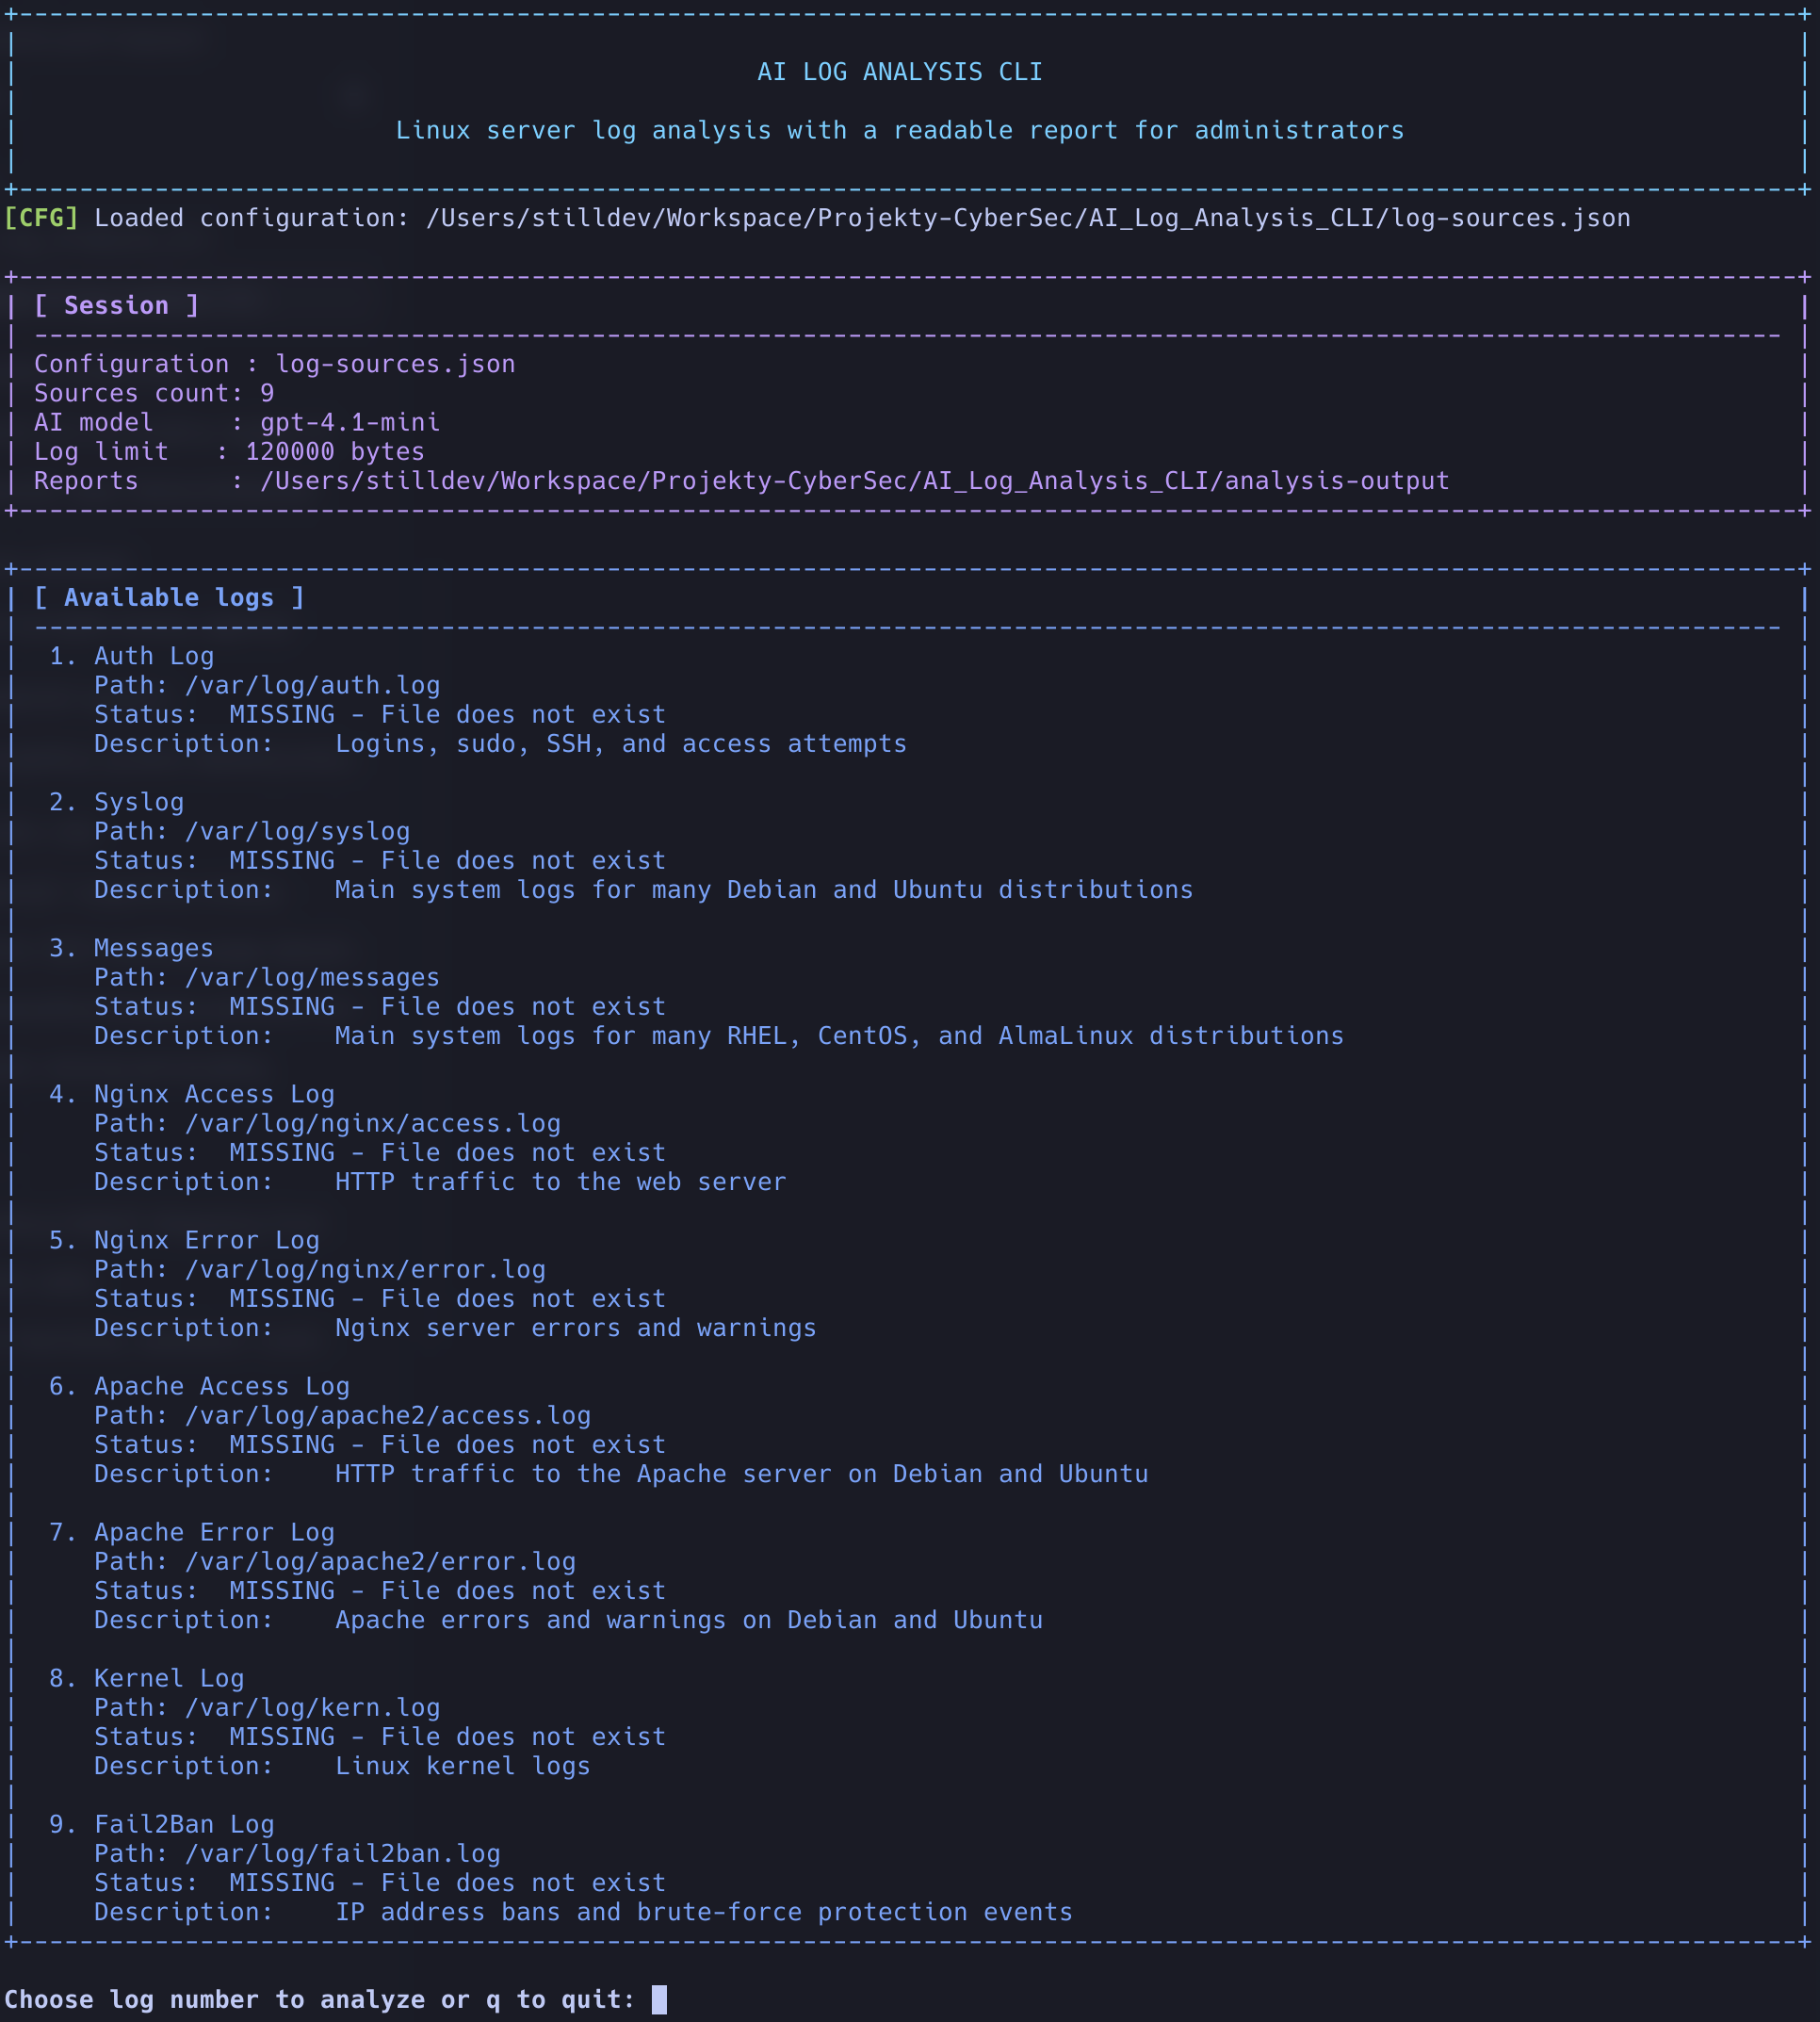
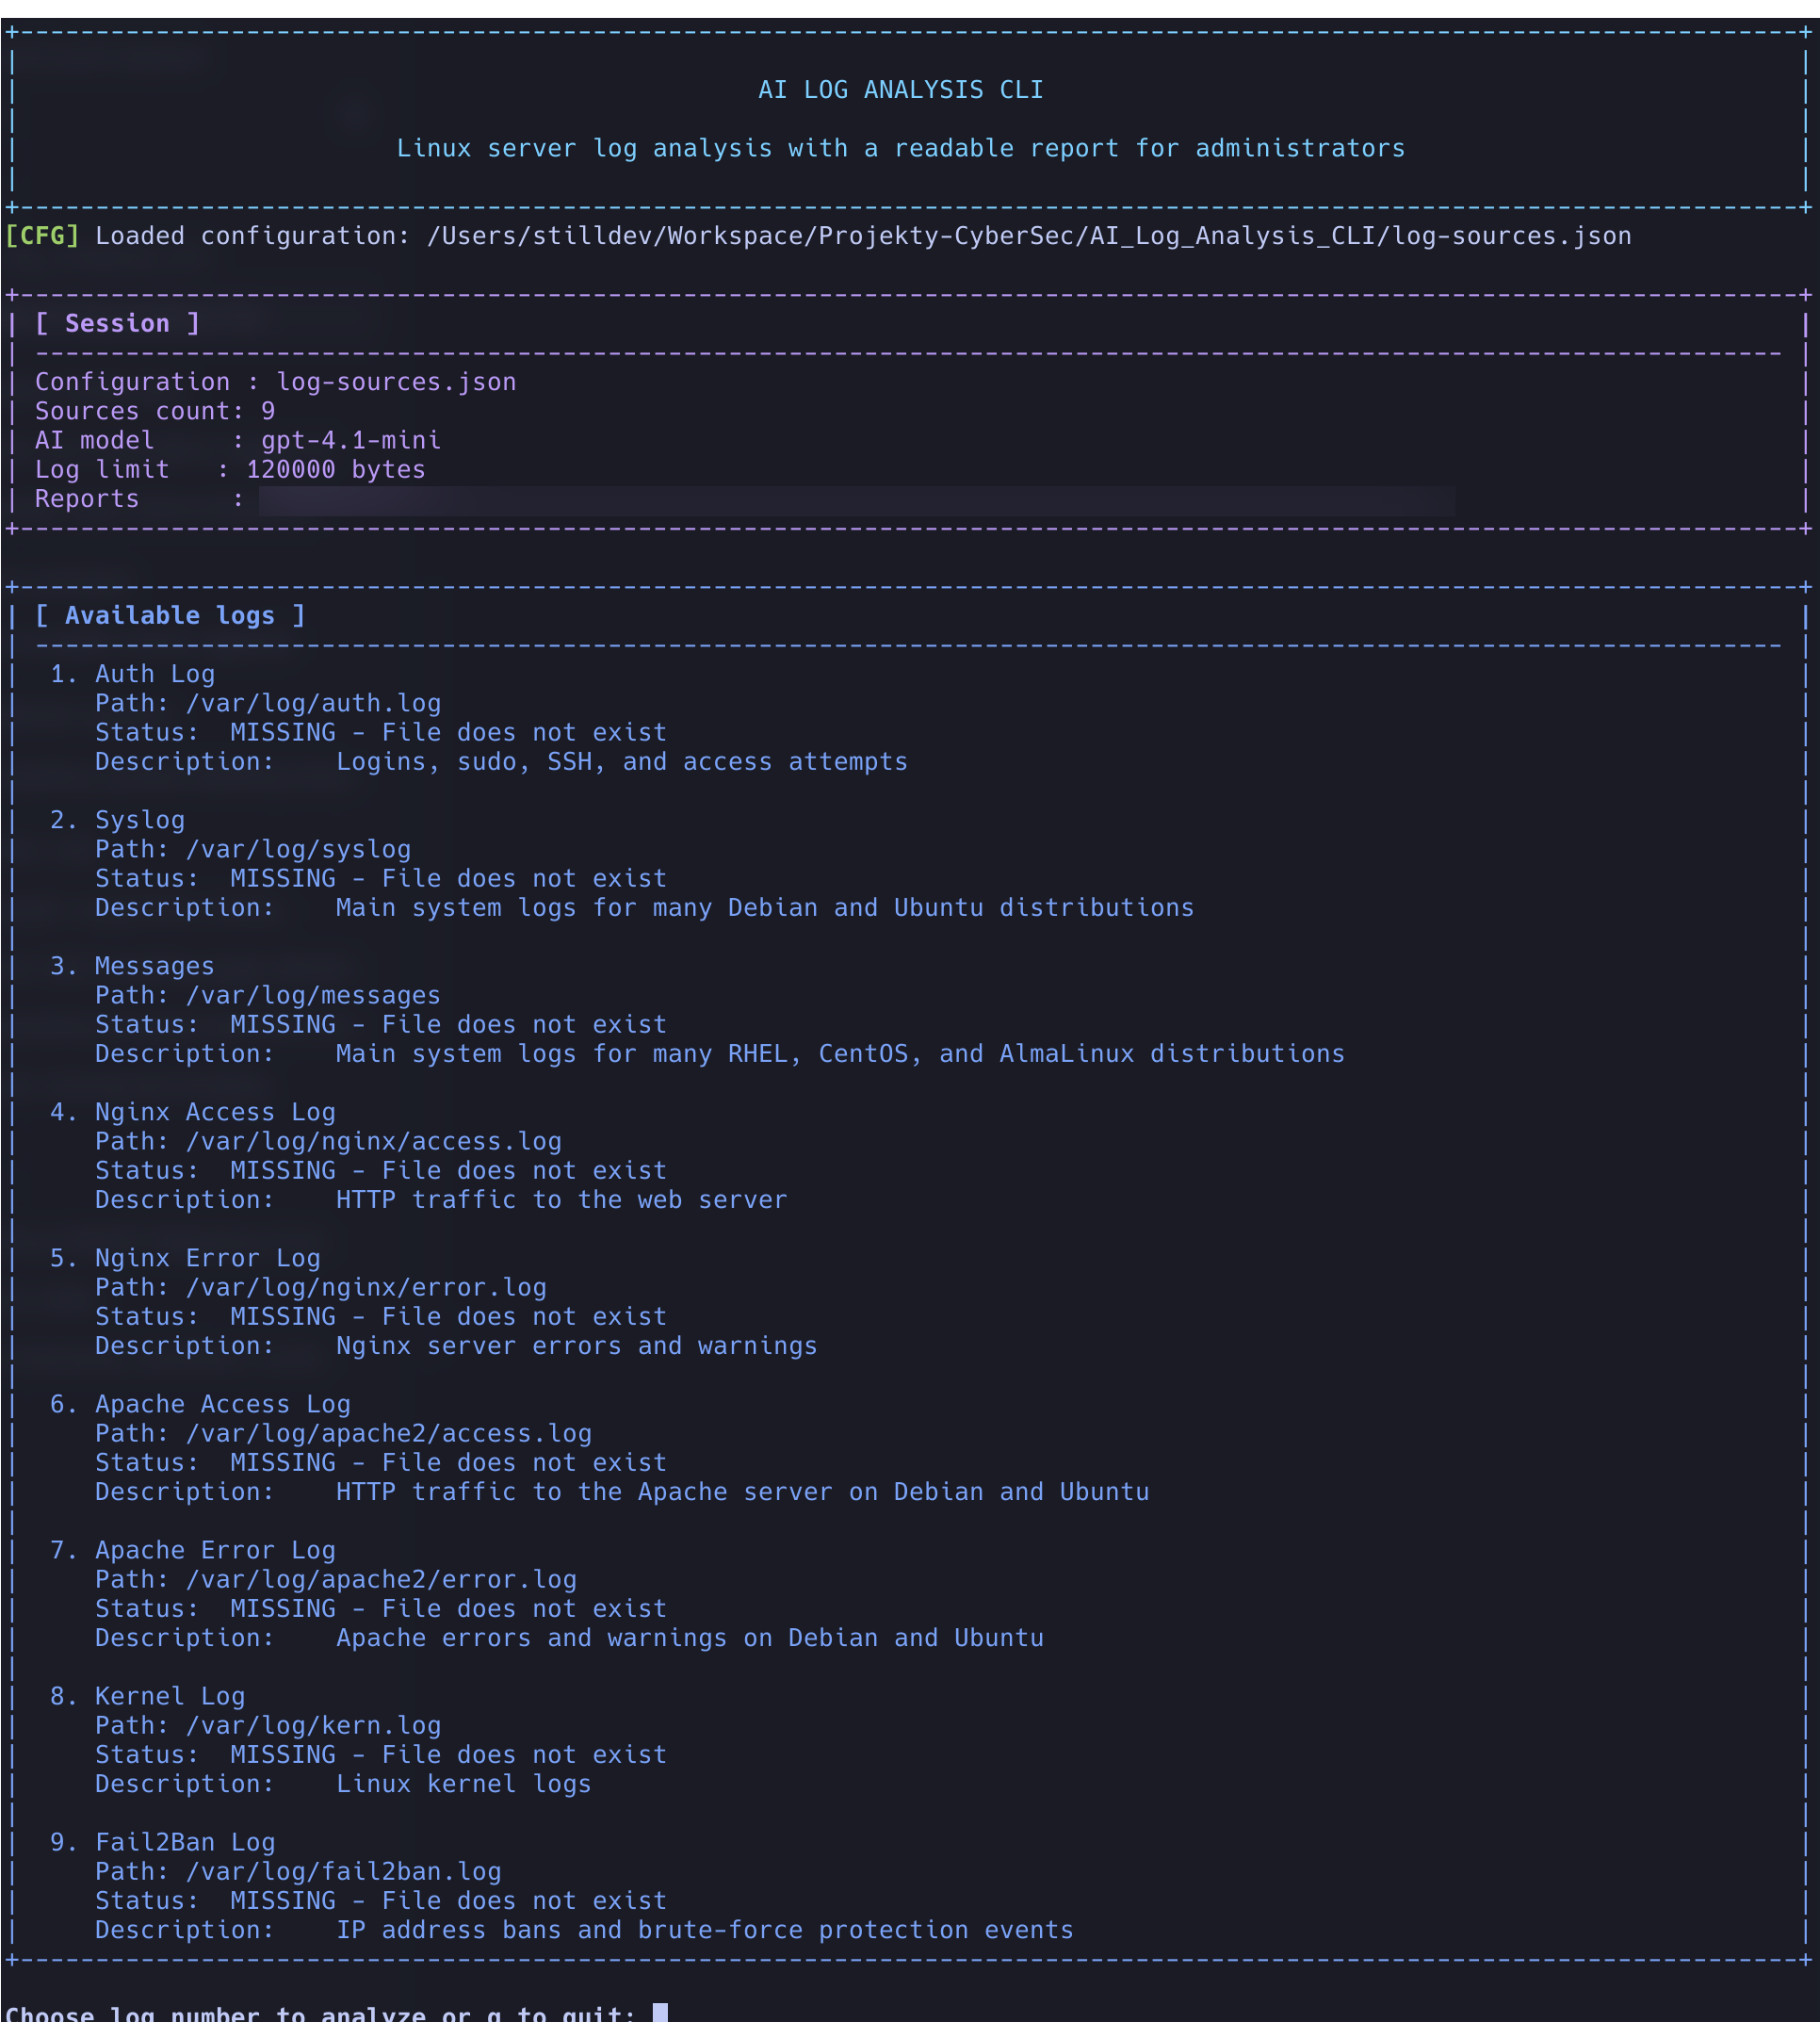
Use provided README screenshots

diff --git a/README.md b/README.md
@@ -19,11 +19,11 @@ CLI do analizy logow serwerowych Linux przy pomocy AI. Projekt laczy szybka loka
 
 ### Polish CLI
 
-![AI Log Analysis CLI - Polish](assets/screenshots/cli-pl-sanitized.svg)
+![AI Log Analysis CLI - Polish](assets/screenshots/cli-pl.png)
 
 ### English CLI
 
-![AI Log Analysis CLI - English](assets/screenshots/cli-en-sanitized.svg)
+![AI Log Analysis CLI - English](assets/screenshots/cli-en.png)
 
 ## Requirements
 